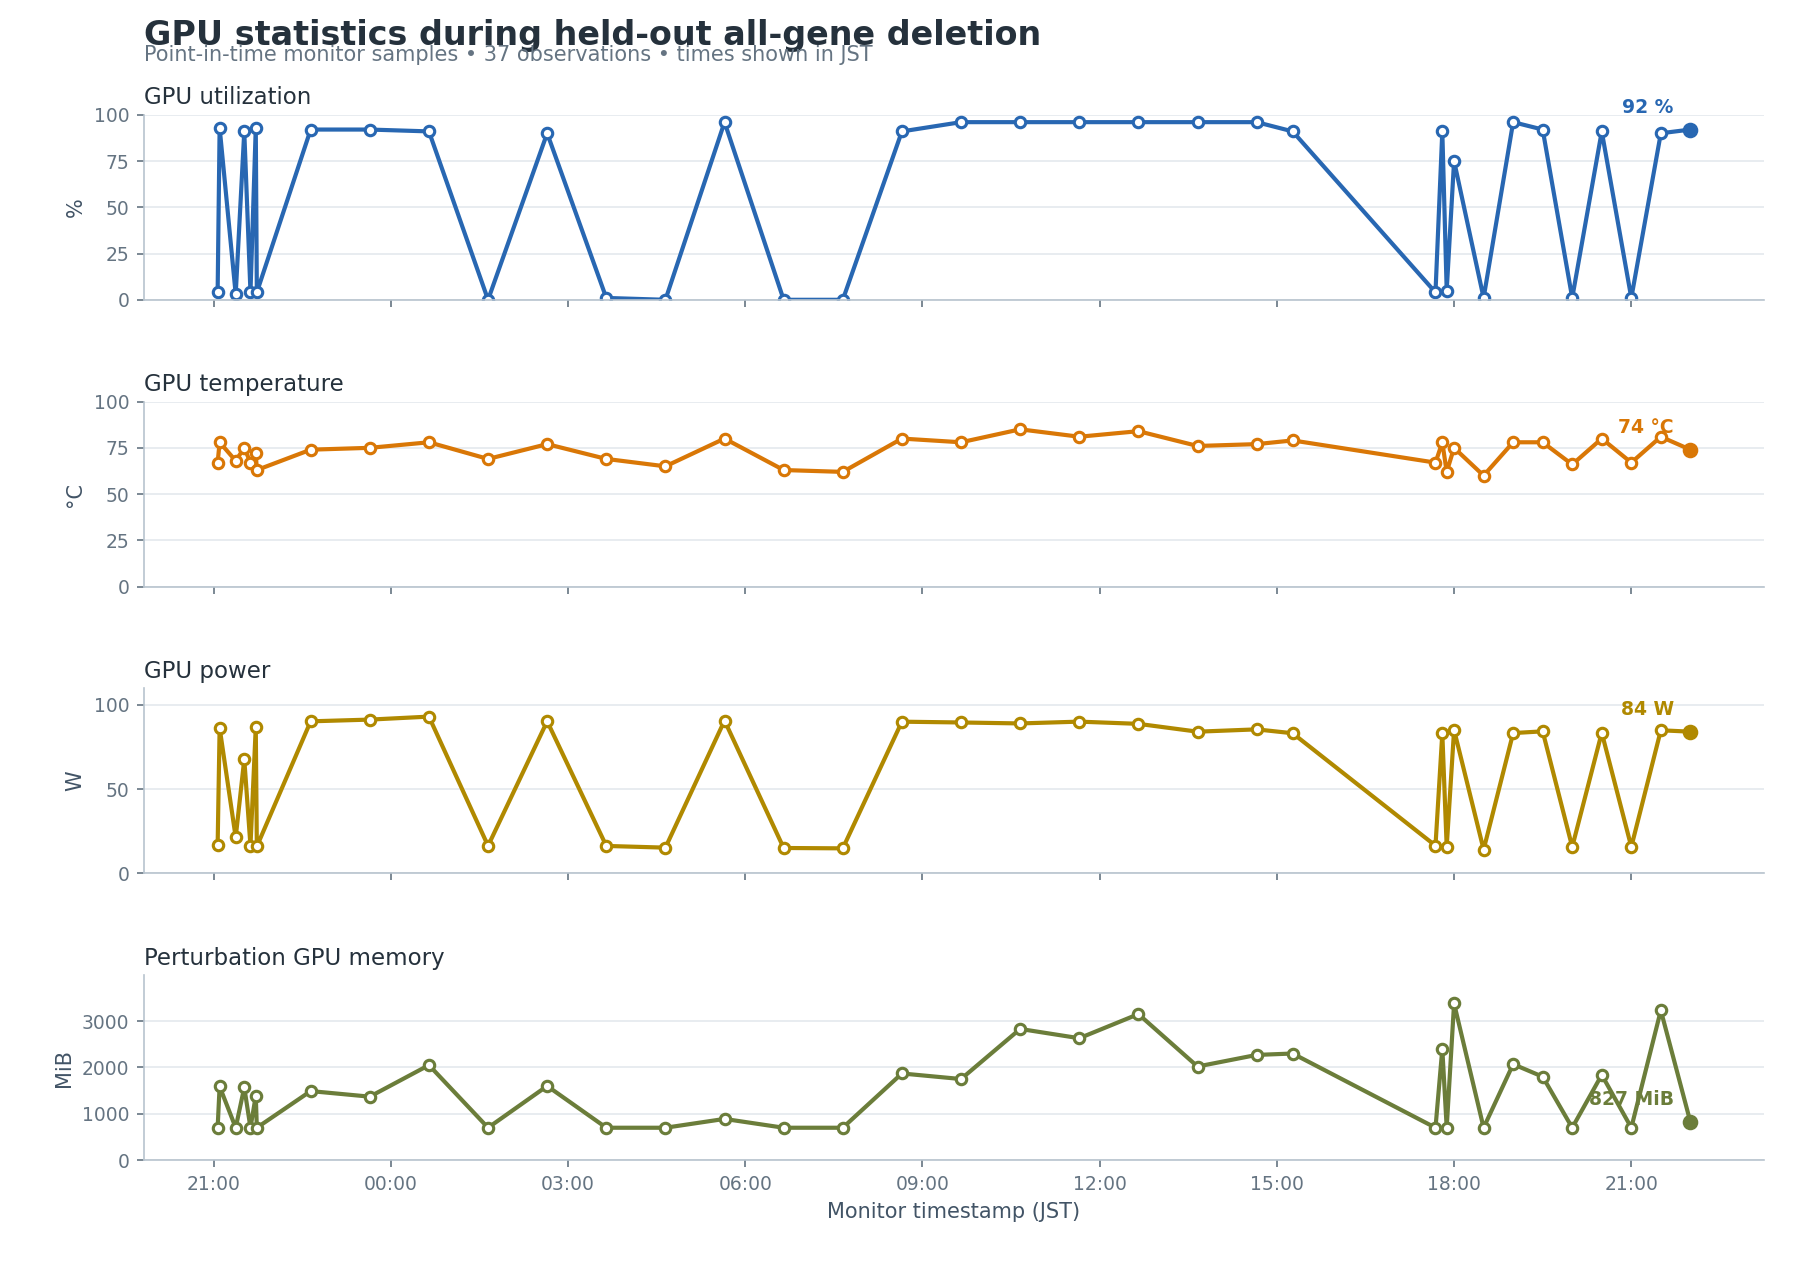
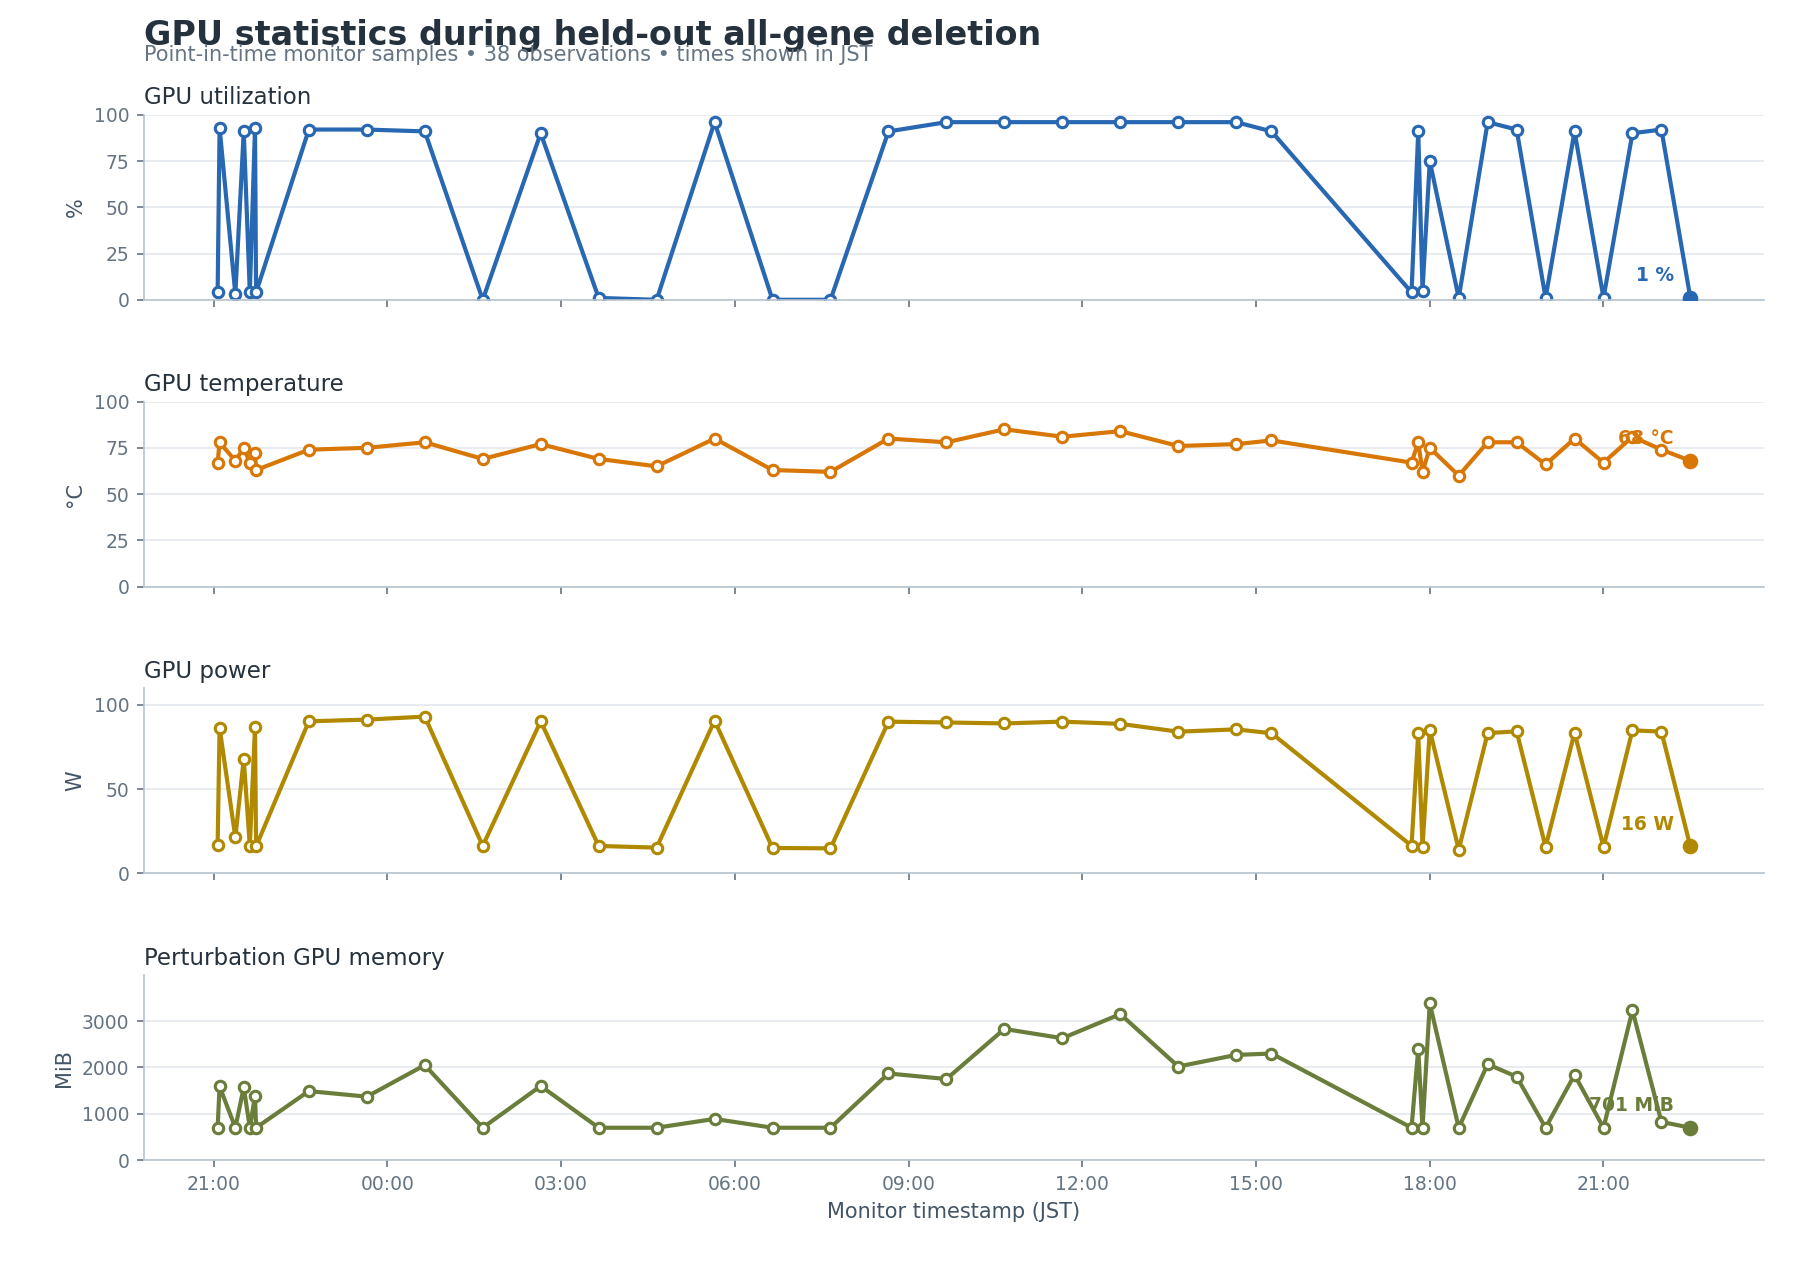
monitor: update perturbation status 2026-07-18 22:30 JST

diff --git a/current_workflow/monitoring/GPU_PROGRESS_REPORT.md b/current_workflow/monitoring/GPU_PROGRESS_REPORT.md
@@ -15,6 +15,7 @@ Newest refreshes are appended at the top and retained for the most recent
 48 runs.
 
 <!-- JOB_RUN_SUMMARIES_START -->
+- **2026-07-18T22:30:01+09:00** — RUNNING; 3,032 / 3,379 cells (89.73%). The run advanced by 42 cells and 2 shards, lifting completion from 88.49% to 89.73%. LUSC remained complete; LUAD remained complete; NORMAL moved from 1,019 to 1,061 cells; GPU utilization fell from 92% to 1%.
 - **2026-07-18T22:00:01+09:00** — RUNNING; 2,990 / 3,379 cells (88.49%). The run advanced by 42 cells and 1 shards, lifting completion from 87.24% to 88.49%. LUSC remained complete; LUAD remained complete; NORMAL moved from 977 to 1,019 cells; GPU utilization rose from 90% to 92%.
 - **2026-07-18T21:30:01+09:00** — RUNNING; 2,948 / 3,379 cells (87.24%). The run advanced by 44 cells and 2 shards, lifting completion from 85.94% to 87.24%. LUSC remained complete; LUAD remained complete; NORMAL moved from 933 to 977 cells; GPU utilization rose from 1% to 90%.
 - **2026-07-18T21:00:02+09:00** — RUNNING; 2,904 / 3,379 cells (85.94%). The run advanced by 45 cells and 2 shards, lifting completion from 84.61% to 85.94%. LUSC remained complete; LUAD remained complete; NORMAL moved from 888 to 933 cells; GPU utilization fell from 91% to 1%.
@@ -31,20 +32,20 @@ Newest refreshes are appended at the top and retained for the most recent
 
 ## Current snapshot
 
-**What changed since the prior report:** The run advanced by 42 cells and 1 shards, lifting completion from 87.24% to 88.49%. LUSC remained complete; LUAD remained complete; NORMAL moved from 977 to 1,019 cells; GPU utilization rose from 90% to 92%.
+**What changed since the prior report:** The run advanced by 42 cells and 2 shards, lifting completion from 88.49% to 89.73%. LUSC remained complete; LUAD remained complete; NORMAL moved from 1,019 to 1,061 cells; GPU utilization fell from 92% to 1%.
 
 | Metric | Value |
 | --- | --- |
-| Generated | 2026-07-18T22:00:01+09:00 |
+| Generated | 2026-07-18T22:30:01+09:00 |
 | Run status | RUNNING |
-| Overall cell progress | 2,990 / 3,379 (88.49%) |
+| Overall cell progress | 3,032 / 3,379 (89.73%) |
 | GPU | NVIDIA GB10 |
-| GPU utilization | 92% |
-| GPU temperature | 74 C |
-| GPU power | 84.2 W |
-| Perturbation GPU memory | 827 MiB |
-| System memory used | 39.7 GiB |
-| System memory available | 80.0 GiB |
+| GPU utilization | 1% |
+| GPU temperature | 68 C |
+| GPU power | 16.0 W |
+| Perturbation GPU memory | 701 MiB |
+| System memory used | 42.5 GiB |
+| System memory available | 77.2 GiB |
 | Swap used | 0.0 GiB |
 
 ### Progress by source
@@ -53,11 +54,11 @@ Newest refreshes are appended at the top and retained for the most recent
 | --- | --- | --- | --- | --- |
 | LUSC | 560 / 560 (100.00%) | 23 / 23 | 1,120 | 348,313 / 348,313 |
 | LUAD | 1,411 / 1,411 (100.00%) | 57 / 57 | 2,822 | 1,150,097 / 1,150,097 |
-| NORMAL | 1,019 / 1,408 (72.37%) | 40 / 57 | 2,052 | 1,030,482 / 1,439,366 |
+| NORMAL | 1,061 / 1,408 (75.36%) | 42 / 57 | 2,137 | 1,083,742 / 1,439,366 |
 
 ## Final statistical comparisons
 
-**0 / 6 comparisons are complete. Final aggregation waits for the deletion screen, currently 120 / 137 shards.**
+**0 / 6 comparisons are complete. Final aggregation waits for the deletion screen, currently 122 / 137 shards.**
 
 | Comparison | State | Result rows | Updated | Output |
 | --- | --- | --- | --- | --- |
@@ -82,6 +83,7 @@ The history table below shows the newest samples first.
 
 | Timestamp | Cells | Progress | GPU util | Temp | Power | Shards |
 | --- | --- | --- | --- | --- | --- | --- |
+| 2026-07-18T22:30:01+09:00 | 3,032 | 89.73% | 1% | 68 C | 16.0 W | 122 |
 | 2026-07-18T22:00:01+09:00 | 2,990 | 88.49% | 92% | 74 C | 84.2 W | 120 |
 | 2026-07-18T21:30:01+09:00 | 2,948 | 87.24% | 90% | 81 C | 85.0 W | 119 |
 | 2026-07-18T21:00:02+09:00 | 2,904 | 85.94% | 1% | 67 C | 15.8 W | 117 |
@@ -89,7 +91,6 @@ The history table below shows the newest samples first.
 | 2026-07-18T20:00:01+09:00 | 2,813 | 83.25% | 1% | 66 C | 15.7 W | 113 |
 | 2026-07-18T19:30:01+09:00 | 2,766 | 81.86% | 92% | 78 C | 84.3 W | 111 |
 | 2026-07-18T19:00:01+09:00 | 2,729 | 80.76% | 96% | 78 C | 83.3 W | 110 |
-| 2026-07-18T18:30:01+09:00 | 2,692 | 79.67% | 1% | 60 C | 14.1 W | 108 |
 
 ## Job notes
 
